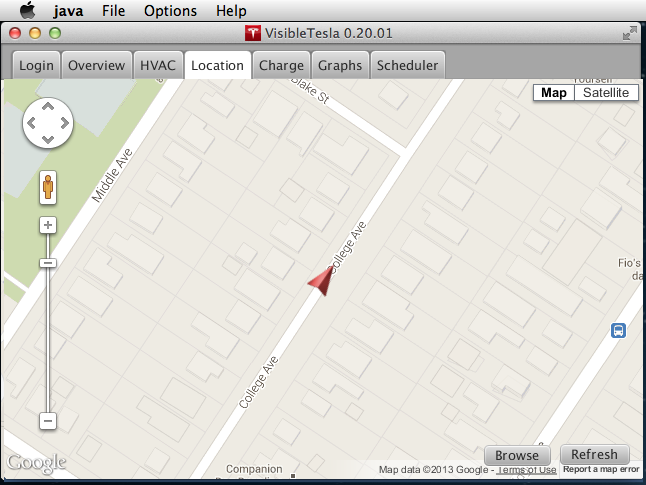
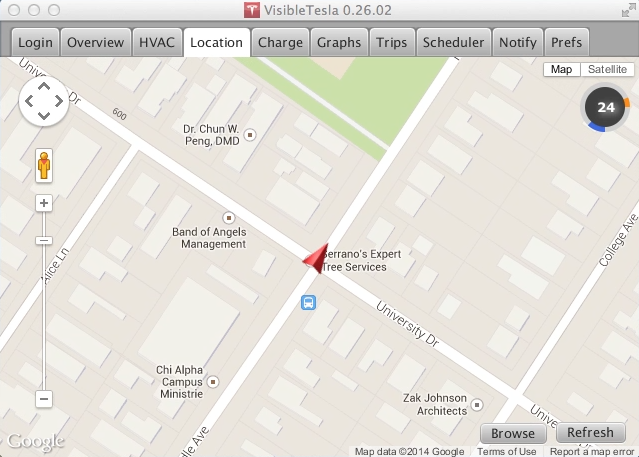
Update the documentation for 0.26.02

diff --git a/Documentation/pages/ChargeTab.html b/Documentation/pages/ChargeTab.html
@@ -45,7 +45,7 @@
                             Current
                         </td>
                         <td>
-                            The amount of current being supplied to the vehicle. If it is a European vehicle, VsibleTesla will check  whether the connected power is 3-phase. If it is 3-phase, a ③ will be displayed after the word "Current".
+                            The amount of current being supplied to the vehicle. If it is a European vehicle, VsibleTesla will check whether the connected power is 3-phase. If it is 3-phase, a ③ will be displayed after the word "Current".
                         </td>
                     </tr>
                     <tr>
@@ -88,32 +88,60 @@
                                         </th>
                                     </tr>
                                     <tr>
-                                        <td>Stopped</td>
-                                        <td>The car is connected to a power source, but is not in a charging cycle.</td>
+                                        <td>
+                                            Stopped
+                                        </td>
+                                        <td>
+                                            The car is connected to a power source, but is not in a charging cycle.
+                                        </td>
                                     </tr>
                                     <tr>
-                                        <td>Starting</td>
-                                        <td>The car is connected to a power source and is beginning a charging cycle.</td>
+                                        <td>
+                                            Starting
+                                        </td>
+                                        <td>
+                                            The car is connected to a power source and is beginning a charging cycle.
+                                        </td>
                                     </tr>
                                     <tr>
-                                        <td>Charging</td>
-                                        <td>The car is actively charging.</td>
+                                        <td>
+                                            Charging
+                                        </td>
+                                        <td>
+                                            The car is actively charging.
+                                        </td>
                                     </tr>
                                     <tr>
-                                        <td>Complete</td>
-                                        <td>The car was charging and completed its charge cycle.</td>
+                                        <td>
+                                            Complete
+                                        </td>
+                                        <td>
+                                            The car was charging and completed its charge cycle.
+                                        </td>
                                     </tr>
                                     <tr>
-                                        <td>Disconnected</td>
-                                        <td>The car is not connected to a power source</td>
+                                        <td>
+                                            Disconnected
+                                        </td>
+                                        <td>
+                                            The car is not connected to a power source
+                                        </td>
                                     </tr>
                                     <tr>
-                                        <td>NoPower</td>
-                                        <td>A charging cycle was in progress, but power was disconnected.</td>
+                                        <td>
+                                            NoPower
+                                        </td>
+                                        <td>
+                                            A charging cycle was in progress, but power was disconnected.
+                                        </td>
                                     </tr>
                                     <tr>
-                                        <td>Unknown</td>
-                                        <td>Your car is either not reporting its charge status or it reported a value that VisibleTesla does not understand.</td>
+                                        <td>
+                                            Unknown
+                                        </td>
+                                        <td>
+                                            Your car is either not reporting its charge status or it reported a value that VisibleTesla does not understand.
+                                        </td>
                                     </tr>
                                 </tbody>
                             </table>
@@ -193,13 +221,21 @@
                     </tr>
                 </tbody>
             </table>
-            <p>Notes: <ul>
+            <p>
+                Notes:
+            </p>
+            <ul>
                 <li>It has been discovered that the range is derived slightly differently while the car is being charged vs. when it is not. This can cause the range to seem to drop by a small amount immediately after charging stops.
                 </li>
                 <li>When charging with a 3-phase current source, the interpretation of some of these fields may not seem to be correct. Note that VisibleTesla does not compute any of the values reported here. It simply displays the values reported by your car.
                 </li>
+                <li>
+                    Vehicles with firmware 5.9 or later have the ability to give a "usable battery level" reading. Tesla says:
+                    <blockquote>
+                        In cold weather, some of the stored energy in your Model S’s battery may not be available on your drive because the battery is too cold. When this happens, a portion of the battery meter will appear blue and the range value will have a snowflake image next to it. If your car is plugged in, you can heat your battery using wall power by turning on the Climate Control via the mobile app.
+                    </blockquote>In VisibleTesla, the charge tab reflects this with a snowflake over the battery gauge. When you see the snowflake, the gauge is displaying the usable battery level.
+                </li>
             </ul>
-            </p>
             <p>
                 The following screen shot shows the car when connected to a power source but not charging. Note that below the "Charging Data" table there is an indication that the car has a charge scheduled. This refers to the car's charge scheduler, not to the <a href="SchedulerTab.html">Scheduler Tab</a>.
             </p><img class="screenshot" src="../images/08_Charge_Plugged_In.png">

diff --git a/Documentation/ReleaseNotes.html b/Documentation/ReleaseNotes.html
@@ -20,7 +20,7 @@
 				VisibleTesla Release Notes
 			</h1>
 			<h3>
-				VisibleTesla 0.26.01 [03-29-2014]
+				VisibleTesla 0.26.02 [04-14-2014]
 			</h3>
 			<ul>
 				<li>User-Visible Changes
@@ -28,13 +28,78 @@
 						<li>General
 							<ul>
 								<li>
-									<span class="added">Addition</span>: Added a <span class="ui">File&rarr;Vampire Loss...</span> menu item that visualizes (and dumps) statistics about vampire loss. Please refer to the <a href="pages/OtherTopics.html#vampireLoss">documentation for details</a>.
+									<span class="fixed">Fix</span>: Yet another attempt to make the proxy functionality work. It is now tested with one commercial http proxy and works in that test. The proxy functionality is described in the documentation for the <a href="pages/PrefsTab.html">Prefs Tab</a>. Look for the <span class="ui">Enable Proxy</span> setting.
+								</li>
+							</ul>
+						</li>
+						<li>Login
+						</li>
+						<li>Overview
+							<ul>
+								<li>
+									<span class="changed">Refinement</span>: The display now shows the Aero wheels properly even if installed after purchase.
+								</li>
+							</ul>
+						</li>
+						<li>HVAC
+							<ul>
+								<li>
+									<span class="changed">Refinement</span>: The display now shows the Aero wheels properly even if installed after purchase.
+								</li>
+							</ul>
+						</li>
+						<li>Location
+							<ul>
+								<li>
+									<span class="added">Addition</span>: Added a speedometer readout in the upper right hand corner of the map. This is similar to what is displayed in Tesla's iPhone application.
+								</li>
+							</ul>
+						</li>
+						<li>Charge
+							<ul>
+								<li>
+									<span class="added">Addition</span>: Vehicles with firmware 5.9 or later have the ability to give a "usable battery level" reading. Tesla says:
+									<blockquote>
+										In cold weather, some of the stored energy in your Model S’s battery may not be available on your drive because the battery is too cold. When this happens, a portion of the battery meter will appear blue and the range value will have a snowflake image next to it. If your car is plugged in, you can heat your battery using wall power by turning on the Climate Control via the mobile app.
+									</blockquote>
+									In VisibleTesla, the charge tab reflects this with a snowflake over the battery gauge. When you see the snowflake, the gauge is displaying the usable battery level.
+								</li>
+							</ul>
+						</li>
+						<li>Graphs
+						</li>
+						<li>Trips
+						</li>
+						<li>Scheduler
+						</li>
+						<li>Notify
+						</li>
+						<li>Prefs
+						</li>
+					</ul>
+				</li>
+				<li>Under-the-covers
+				</li>
+				<li>Known problems
+				</li>
+			</ul>
+			<hr>
+			<h3>
+				VisibleTesla 0.26.01 [04-12-2014]
+			</h3>
+			<ul>
+				<li>User-Visible Changes
+					<ul>
+						<li>General
+							<ul>
+								<li>
+									<span class="added">Addition</span>: Added a <span class="ui">File→Vampire Loss...</span> menu item that visualizes (and dumps) statistics about vampire loss. Please refer to the <a href="pages/OtherTopics.html#vampireLoss">documentation for details</a>.
 								</li>
 								<li>
 									<span class="changed">Refinement</span>: Updates to the documentation.
 								</li>
 								<li>
-									<span class="fixed">Fix</span>: A new type of option caused a failure in the login process for some cars (all in Europe I believe). That problem has been fixed but I am still investigating what this new option means. 
+									<span class="fixed">Fix</span>: A new type of option caused a failure in the login process for some cars (all in Europe I believe). That problem has been fixed but I am still investigating what this new option means.
 								</li>
 							</ul>
 						</li>
@@ -52,7 +117,7 @@
 						<li>Location
 							<ul>
 								<li>
-									<span class="fixed">Fix</span>: A change by Google to their maps API caused an error when popping up a map using the <span class="ui">Browse</span> button. 
+									<span class="fixed">Fix</span>: A change by Google to their maps API caused an error when popping up a map using the <span class="ui">Browse</span> button.
 								</li>
 							</ul>
 						</li>
@@ -67,7 +132,7 @@
 						<li>Notify
 							<ul>
 								<li>
-									<span class="fixed">Fix</span>: A change by Google to their maps API caused an error when defining an area for the <span class="ui">Car entered</span> and <span class="ui">Car left</span> notifications. 
+									<span class="fixed">Fix</span>: A change by Google to their maps API caused an error when defining an area for the <span class="ui">Car entered</span> and <span class="ui">Car left</span> notifications.
 								</li>
 							</ul>
 						</li>
@@ -79,7 +144,7 @@
 				</li>
 				<li>Known problems
 				</li>
-			</ul>			
+			</ul>
 			<hr>
 			<h3>
 				VisibleTesla 0.26.00 [03-14-2014]
@@ -124,11 +189,11 @@
 								<li>
 									<span class="added">Addition</span>: Geofencing <b><font color="red">[EXPERIMENTAL]</font></b>
 									<p>
-										You can now get a notification when your car enters a specified area or exists a specified area. These areas can be different. An area is defined by a location and a radius in meters. You set the location by typing in an address. The corresponding latitude and longitude are determined for you. A slider allows you to specify a radius around that location to yield the area of interest. You define this area by pressing the <span class="ui">Define Area</span> button next to the <span class="ui">Car entered area</span> or <span class="ui">Car left area</span> checkboxes. 
+										You can now get a notification when your car enters a specified area or exists a specified area. These areas can be different. An area is defined by a location and a radius in meters. You set the location by typing in an address. The corresponding latitude and longitude are determined for you. A slider allows you to specify a radius around that location to yield the area of interest. You define this area by pressing the <span class="ui">Define Area</span> button next to the <span class="ui">Car entered area</span> or <span class="ui">Car left area</span> checkboxes.
 									</p>
 									<p>
 										Pressing this button will pop up a dialog that lets you enter the address which defines the center of the area. You'll notice that the <span class="ui">OK</span> button is disabled any time you edit the address field. To make it active you must press the <span class="ui">Lookup</span> button. It will lookup the address and show it to you on a map to ensure it can be found and is what you intended. If it's not, you can change the address and try again. If it is what you want, just make sure the radius is set to your liking and hit <span class="ui">OK</span>.
-									</p>								
+									</p>
 								</li>
 							</ul>
 						</li>

diff --git a/Documentation/pages/LocationTab.html b/Documentation/pages/LocationTab.html
@@ -22,9 +22,14 @@
                 The Location Tab
             </h1>
             <p>
-                The Location tab embeds a Google map which shows the current location of your car using a red vehicle marker. The marker is rotated to show your car's heading. There is a "Browse" button that will launch your default browser displaying a Google map with the car's location so you can get directions or perform any other Google map function.
+                The Location tab embeds a Google map which shows the current location of your car using a red vehicle marker. The marker is oriented to show your car's heading. Towards the bottom right of the Tab there is a <span class="ui">Browse</span> button that will launch your default browser displaying a Google map with the car's location. This allows you to get directions or perform any other Google map function.
             </p>
+            <p>
+                In the upper right corner of the Tab there is a circular readout that mimics the speedometer display in your dash. In the center you'll see your speed. The outer ring of the readout is split into left and right halves. The left half is a visual representation of your speed. The faster you go, the more of the ring will be filled in blue. The right half of the readout is a visual representation of your power usage. As you consume power, an orange ring will fill in and rise from the center left towards the top. If you are recovering power, a green ring will fill in from the center towards the bottom.
+            </p>
+            <p>
                 <img class="screenshot" src="../images/06_Location_Tab.png">
+            </p>
             <p>
                 Like a normal Google Map, you can zoom in and out, you can pan, and switch to satellite mode. If you click on the arrow representing your Tesla, an info window will pop up displaying the street address that is closest to your car's location.
             </p>
@@ -41,7 +46,7 @@
                 While you are viewing the Location tab it auto-refreshes every 30 seconds like other tabs. If you happen to have the Location Tab selected while the car is in motion, VisibleTesla will attempt to go into "streaming" mode. In this mode it collects information more rapidly.
             </p>
             <p>
-                You can export the collected location information to an Excel file using the <span class="ui">File&rarr;Export Location Data...</span> menu item. For details on the process, please see the section: <a href="OtherTopics.html#exportingData">Exporting Your Data</a>.
+                You can export the collected location information to an Excel file using the <span class="ui">File→Export Location Data...</span> menu item. For details on the process, please see the section: <a href="OtherTopics.html#exportingData">Exporting Your Data</a>.
             </p>
         </div>
         <div id="footer"></div>

diff --git a/Documentation/pages/PrefsTab.html b/Documentation/pages/PrefsTab.html
@@ -1,4 +1,4 @@
-<!DOCTYPE html PUBLIC "-//W3C//DTD XHTML 1.0 Strict//EN"
+ı<!DOCTYPE html PUBLIC "-//W3C//DTD XHTML 1.0 Strict//EN"
     "http://www.w3.org/TR/xhtml1/DTD/xhtml1-strict.dtd">
 <html xmlns="http://www.w3.org/1999/xhtml">
     <head>
@@ -162,7 +162,10 @@
                             Enable Proxy
                         </td>
                         <td>
-                            Allows the user to specify an http proxy to be used for all operations. To use this feature, check the "Enable Proxy" checkbox and fill in valid settings for "Proxy Host" and "Proxy Port". Your network administrator will provide these settings to you. Note that this is an HTTP proxy, not a SOCKS proxy. <strong>Note</strong>: This feature has not yet been field tested. It should be considered experimental.
+                            Allows the user to specify an HTTP proxy (not SOCKS) to be used for all operations. To use this feature, check the "Enable Proxy" checkbox and fill in valid settings for "Proxy Host" and "Proxy Port". Your network administrator will provide these settings to you. You must quit and restart VisibleTesla for these settings to take effect.
+                            <p>
+                                <strong>Note</strong>: This feature has very limited testing and should be considered experimental.
+                            </p>
                         </td>
                     </tr>
                     <tr>
